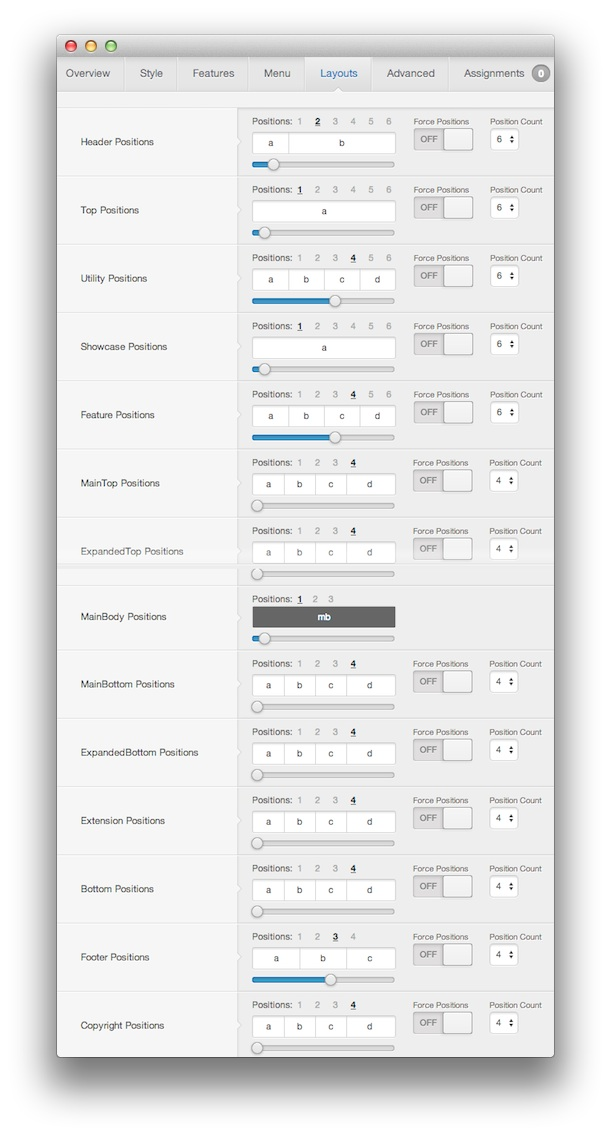
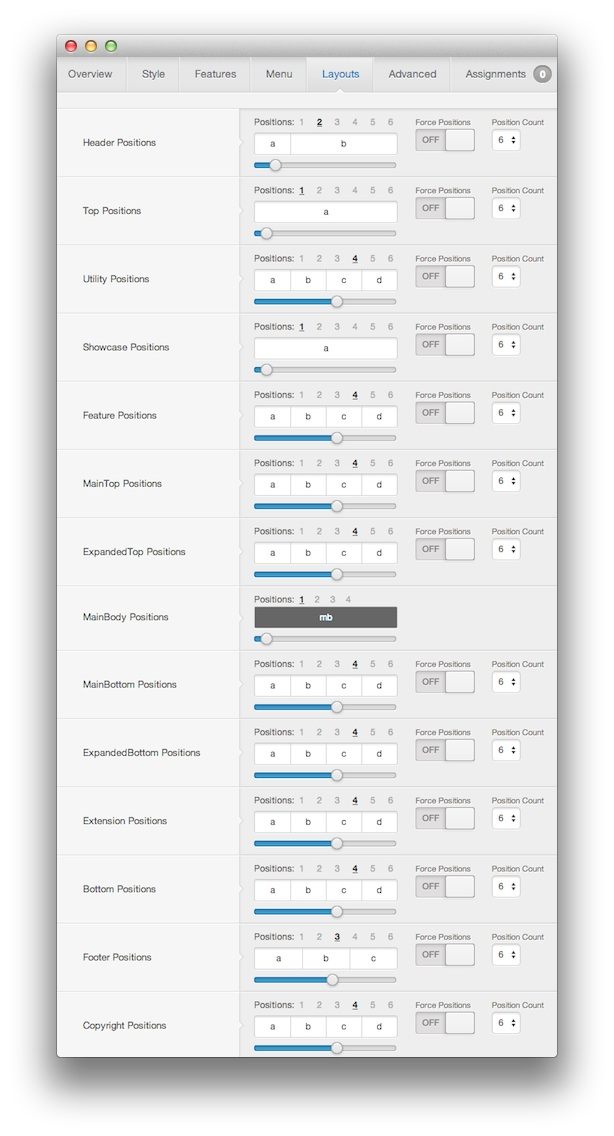
Osmosis Update

diff --git a/Docs/joomla/templates/osmosis/demo_override.md b/Docs/joomla/templates/osmosis/demo_override.md
@@ -80,16 +80,15 @@ Once you have selected a Preset, these options can be further adjusted to match 
 | Default     | Utility Positions        | Positions: 4, 3:3:3:3 |
 | Default     | Showcase Positions       | Positions: 1, 12      |
 | Default     | Feature Positions        | Positions: 4, 3:3:3:3 |
-| Default     | MainTop Positions        | Positions: 4, 2:2:2:3 |
-| Default     | ExpandedTop Positions    | Positions: 4, 2:2:2:3 |
-| Default     | MainBody Positions       | Positions: 1, 9       |
-| Default     | MainBottom Positions     | Positions: 4, 2:2:2:3 |
-| Default     | ExpandedBottom Positions | Positions: 4, 2:2:2:3 |
-| Default     | Extension Positions      | Positions: 4, 2:2:2:3 |
-| Default     | Bottom Positions         | Positions: 4, 2:2:2:3 |
-| Default     | Footer Positions         | Positions: 3, 3:3:3   |
-| Default     | Copyright Positions      | Positions: 4, 2:2:2:3 |
-| Home        | MainBody Positions       | Positions: 1, 9       |
+| Default     | MainTop Positions        | Positions: 4, 3:3:3:3 |
+| Default     | ExpandedTop Positions    | Positions: 4, 3:3:3:3 |
+| Default     | MainBody Positions       | Positions: 1, 12      |
+| Default     | MainBottom Positions     | Positions: 4, 3:3:3:3 |
+| Default     | ExpandedBottom Positions | Positions: 4, 3:3:3:3 |
+| Default     | Extension Positions      | Positions: 4, 3:3:3:3 |
+| Default     | Bottom Positions         | Positions: 4, 3:3:3:3 |
+| Default     | Footer Positions         | Positions: 3, 4:4:4   |
+| Default     | Copyright Positions      | Positions: 4, 3:3:3:3 |
 
 ### Advanced
 
